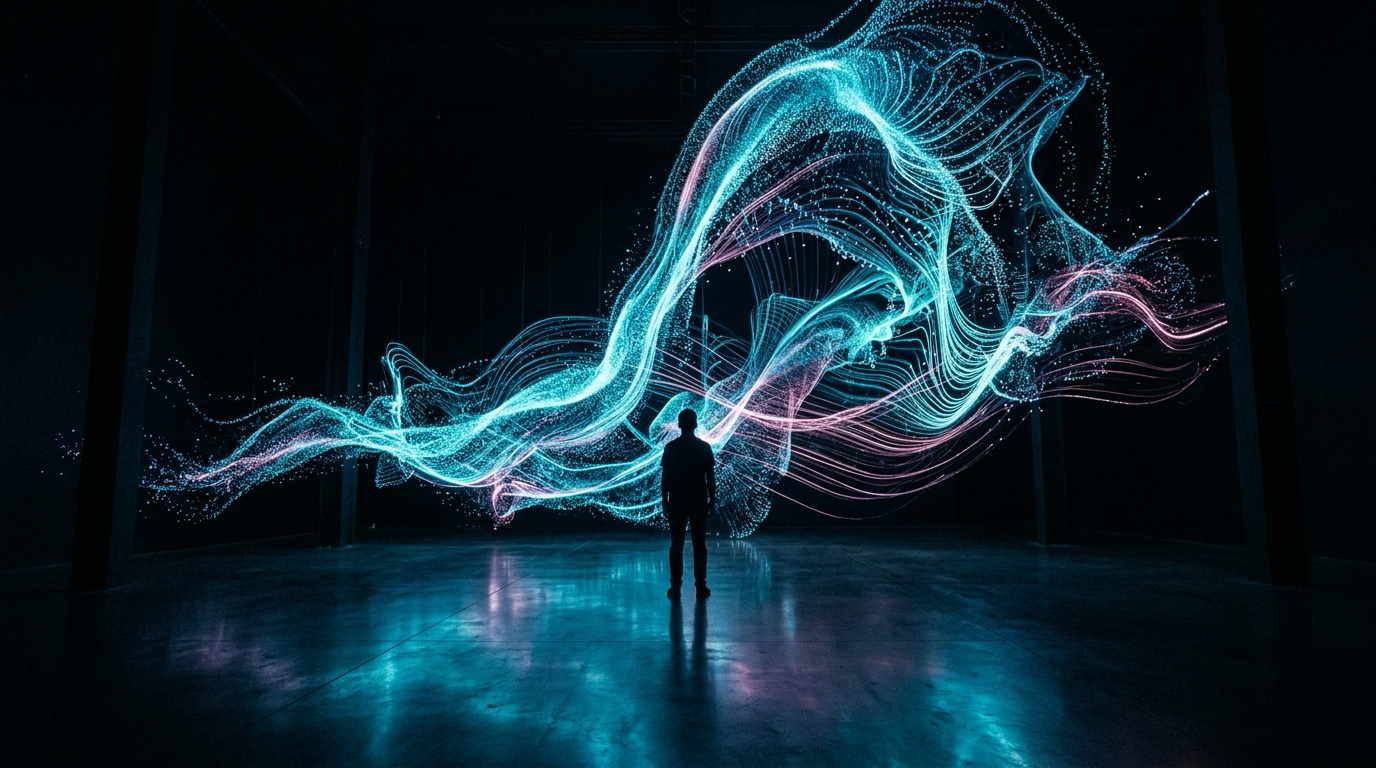
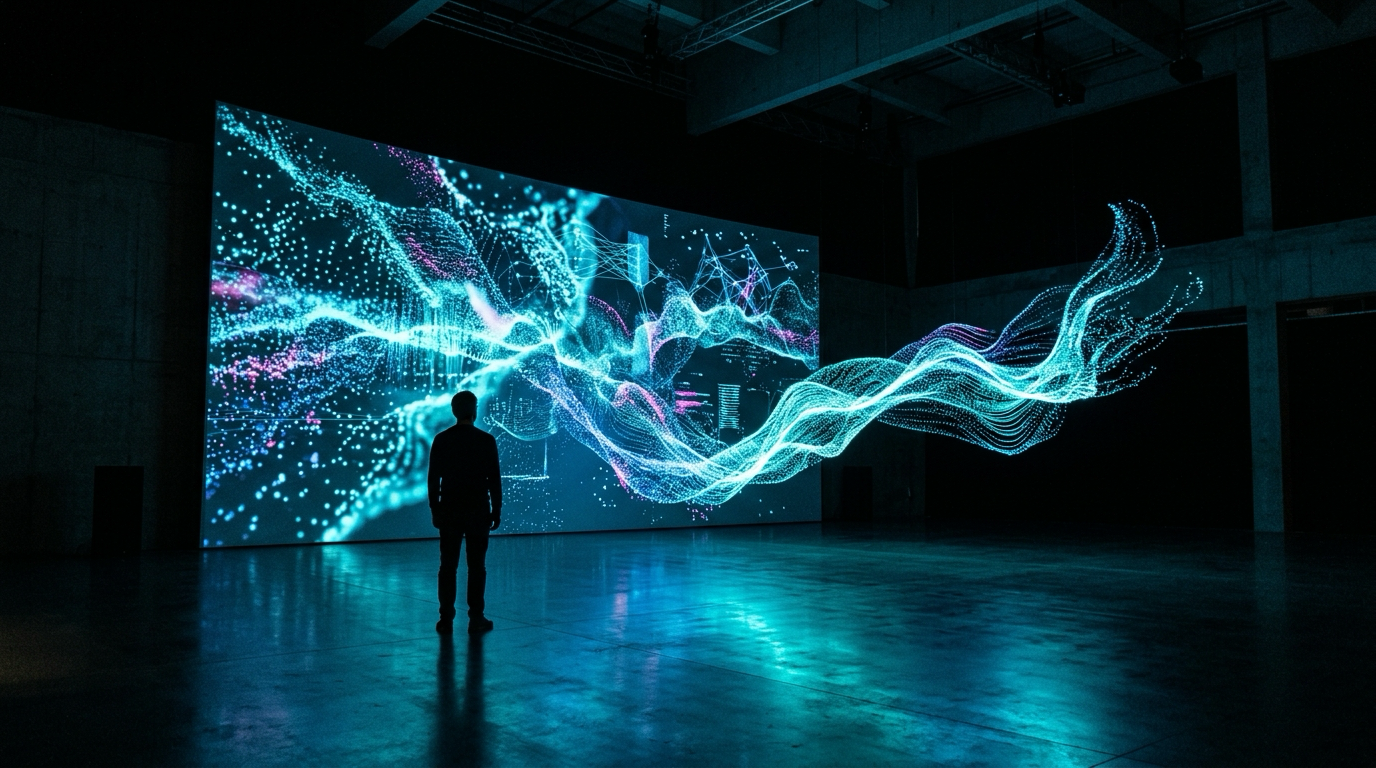
feat(blog): regenerate remaining post covers with nano banana 2

diff --git a/blog/posts/history-of-media-art/index.html b/blog/posts/history-of-media-art/index.html
@@ -10,7 +10,7 @@
     <meta property="og:title" content="미디어아트의 역사" />
     <meta property="og:description" content="Long-form article tracing media art from early kinetic experiments to AI art, ending with Korean trajectories and key theoretical turning points for contemporary readers." />
     <meta property="og:url" content="https://dexa.art/blog/posts/history-of-media-art/" />
-    <meta property="og:image" content="https://dexa.art/blog/images/history-of-media-art-cover.svg" />
+    <meta property="og:image" content="https://dexa.art/blog/images/history-of-media-art-cover.png" />
     <meta property="og:site_name" content="DEXA" />
     <meta property="article:published_time" content="2026-04-15" />
     <meta property="article:author" content="육대근" />
@@ -22,8 +22,8 @@
     <meta name="twitter:card" content="summary_large_image" />
     <meta name="twitter:title" content="미디어아트의 역사" />
     <meta name="twitter:description" content="Long-form article tracing media art from early kinetic experiments to AI art, ending with Korean trajectories and key theoretical turning points for contemporary readers." />
-    <meta name="twitter:image" content="https://dexa.art/blog/images/history-of-media-art-cover.svg" />
-    <script type="application/ld+json">{"@context":"https://schema.org","@type":"Article","headline":"미디어아트의 역사","description":"Long-form article tracing media art from early kinetic experiments to AI art, ending with Korean trajectories and key theoretical turning points for contemporary readers.","image":"https://dexa.art/blog/images/history-of-media-art-cover.svg","datePublished":"2026-04-15","dateModified":"2026-04-15","author":{"@type":"Person","name":"육대근"},"publisher":{"@type":"Organization","name":"DEXA","logo":{"@type":"ImageObject","url":"https://dexa.art/dexa_logo.jpg"}},"mainEntityOfPage":{"@type":"WebPage","@id":"https://dexa.art/blog/posts/history-of-media-art/"},"keywords":"media-art, art-history, new-media, digital-art, generative-art"}</script>
+    <meta name="twitter:image" content="https://dexa.art/blog/images/history-of-media-art-cover.png" />
+    <script type="application/ld+json">{"@context":"https://schema.org","@type":"Article","headline":"미디어아트의 역사","description":"Long-form article tracing media art from early kinetic experiments to AI art, ending with Korean trajectories and key theoretical turning points for contemporary readers.","image":"https://dexa.art/blog/images/history-of-media-art-cover.png","datePublished":"2026-04-15","dateModified":"2026-04-15","author":{"@type":"Person","name":"육대근"},"publisher":{"@type":"Organization","name":"DEXA","logo":{"@type":"ImageObject","url":"https://dexa.art/dexa_logo.jpg"}},"mainEntityOfPage":{"@type":"WebPage","@id":"https://dexa.art/blog/posts/history-of-media-art/"},"keywords":"media-art, art-history, new-media, digital-art, generative-art"}</script>
     <link href="https://fonts.googleapis.com" rel="preconnect" />
     <link crossorigin="" href="https://fonts.gstatic.com" rel="preconnect" />
     <link rel="stylesheet" href="https://fonts.googleapis.com/css2?family=Inter:wght@300;400;500;600;700&family=Noto+Sans+KR:wght@300;400;500;700&display=swap" />
@@ -105,7 +105,7 @@
             </div>
             <div class="prose-dexa">
 <h1>미디어아트의 역사</h1>
-<p><img src="/blog/images/history-of-media-art-cover.svg" alt="History of Media Art cover" loading="lazy"></p>
+<p><img src="/blog/images/history-of-media-art-cover.png" alt="History of Media Art cover" loading="lazy"></p>
 <h2>1. 개요</h2>
 <p>미디어아트는 특정 장르 이름이기보다 기술 매체가 예술의 주제, 재료, 환경, 인터페이스가 되는 순간을 가리키는 넓은 역사적 범주다. 1960년대 플럭서스와 비디오아트가 TV와 전자장치를 예술의 표면으로 끌어들였다면, 1990년대는 컴퓨터, 센서, 네트워크가 관객의 참여와 연결되며 작품의 구조 자체를 바꾸었다. 2000년대 이후 데이터, 알고리즘, 소프트웨어는 이미지 뒤의 인프라를 전면화했고, 2010년대의 이머시브 설치는 그 인프라를 공간 경험과 체험경제로 확장했다. 2020년대 AI아트는 다시 한 번 저자성, 데이터셋, 기계 상상력, 인간 감각의 관계를 재정의하며 미디어아트를 &quot;기술의 표현&quot;이 아니라 &quot;지능과 감각의 협상장&quot;으로 만들고 있다.</p>
 <p>이 60여 년의 흐름을 한 줄로 압축하면, 미디어아트의 역사는 새로운 장치를 도입한 연대기가 아니라 감각의 매체 조건을 반복적으로 재설계한 역사다. 따라서 Nam June Paik에서 Refik Anadol까지의 계보는 단순한 진보 서사가 아니라, Medium Specificity에서 post-media로, 오브제에서 시스템으로, 관람에서 참여로, 인간 중심 창작에서 기계 협업 창작으로 이동한 연속적 재배치의 역사로 읽어야 한다. 이 역사에서 중요한 것은 &quot;기술을 썼느냐&quot;가 아니라, 기술이 작품의 존재 방식과 관객의 지각 방식을 어떻게 바꾸었느냐다. 그 점에서 미디어아트는 언제나 예술사이면서 동시에 매체사, 감각사, 인터페이스사의 교차점에 놓여 있다.</p>

diff --git a/blog/posts/history-of-korean-media-art/index.html b/blog/posts/history-of-korean-media-art/index.html
@@ -10,7 +10,7 @@
     <meta property="og:title" content="한국 미디어아트 역사" />
     <meta property="og:description" content="Verified blog article on the history of Korean media art from Nam June Paik to the AI era, focusing on generational shifts, aesthetics, and global positioning." />
     <meta property="og:url" content="https://dexa.art/blog/posts/history-of-korean-media-art/" />
-    <meta property="og:image" content="https://dexa.art/blog/images/history-of-korean-media-art-cover.svg" />
+    <meta property="og:image" content="https://dexa.art/blog/images/history-of-korean-media-art-cover.png" />
     <meta property="og:site_name" content="DEXA" />
     <meta property="article:published_time" content="2026-04-15" />
     <meta property="article:author" content="육대근" />
@@ -22,8 +22,8 @@
     <meta name="twitter:card" content="summary_large_image" />
     <meta name="twitter:title" content="한국 미디어아트 역사" />
     <meta name="twitter:description" content="Verified blog article on the history of Korean media art from Nam June Paik to the AI era, focusing on generational shifts, aesthetics, and global positioning." />
-    <meta name="twitter:image" content="https://dexa.art/blog/images/history-of-korean-media-art-cover.svg" />
-    <script type="application/ld+json">{"@context":"https://schema.org","@type":"Article","headline":"한국 미디어아트 역사","description":"Verified blog article on the history of Korean media art from Nam June Paik to the AI era, focusing on generational shifts, aesthetics, and global positioning.","image":"https://dexa.art/blog/images/history-of-korean-media-art-cover.svg","datePublished":"2026-04-15","dateModified":"2026-04-15","author":{"@type":"Person","name":"육대근"},"publisher":{"@type":"Organization","name":"DEXA","logo":{"@type":"ImageObject","url":"https://dexa.art/dexa_logo.jpg"}},"mainEntityOfPage":{"@type":"WebPage","@id":"https://dexa.art/blog/posts/history-of-korean-media-art/"},"keywords":"media-art, korean-art, art-history, digital-art, immersive"}</script>
+    <meta name="twitter:image" content="https://dexa.art/blog/images/history-of-korean-media-art-cover.png" />
+    <script type="application/ld+json">{"@context":"https://schema.org","@type":"Article","headline":"한국 미디어아트 역사","description":"Verified blog article on the history of Korean media art from Nam June Paik to the AI era, focusing on generational shifts, aesthetics, and global positioning.","image":"https://dexa.art/blog/images/history-of-korean-media-art-cover.png","datePublished":"2026-04-15","dateModified":"2026-04-15","author":{"@type":"Person","name":"육대근"},"publisher":{"@type":"Organization","name":"DEXA","logo":{"@type":"ImageObject","url":"https://dexa.art/dexa_logo.jpg"}},"mainEntityOfPage":{"@type":"WebPage","@id":"https://dexa.art/blog/posts/history-of-korean-media-art/"},"keywords":"media-art, korean-art, art-history, digital-art, immersive"}</script>
     <link href="https://fonts.googleapis.com" rel="preconnect" />
     <link crossorigin="" href="https://fonts.gstatic.com" rel="preconnect" />
     <link rel="stylesheet" href="https://fonts.googleapis.com/css2?family=Inter:wght@300;400;500;600;700&family=Noto+Sans+KR:wght@300;400;500;700&display=swap" />
@@ -106,7 +106,7 @@
             <div class="prose-dexa">
 <h1>한국 미디어아트 역사</h1>
 <p>이 글은 한국 미디어아트 역사 원문을 블로그용으로 다듬은 버전이다. 원문 중 6번과 7번 항목은 제외했고, 10번까지만 남겼다. 백남준의 1963년 개인전, 1984년 위성 프로젝트, 1988년 《다다익선》, 서울미디어시티비엔날레의 전신과 출범 시점, 아르떼뮤지엄의 2020년 제주 개관, 일부 작가 약력은 공개된 기관 자료와 작가 공식 페이지를 다시 대조해 문장을 정리했다.</p>
-<p><img src="/blog/images/history-of-korean-media-art-cover.svg" alt="History of Korean Media Art cover" loading="lazy"></p>
+<p><img src="/blog/images/history-of-korean-media-art-cover.png" alt="History of Korean Media Art cover" loading="lazy"></p>
 <h2>1. 개요 — 한국 미디어아트의 독특한 위치</h2>
 <p>한국 미디어아트의 역사는 출발점부터 특수하다. 세계 미디어아트의 정전 안에 이미 하나의 한국 이름이 깊게 새겨져 있기 때문이다. 그 이름은 백남준이다. 이 사실은 한국 작가들에게 강력한 역사적 정당성을 주었지만, 동시에 늘 “백남준 이후를 어떻게 말할 것인가”라는 부담도 남겼다.</p>
 <p>그래서 한국 미디어아트의 역사는 선구자 한 명 뒤를 잇는 단순 연대기가 아니다. 거대한 기원을 어떻게 우회하고, 재해석하고, 다른 사회적 감각으로 번역했는가의 역사다. 이 과정에서 중요한 것은 기술 그 자체보다 기술을 받아들이는 한국적 조건이었다. 냉전과 분단, 압축 근대화, 도시 집중, 초고속 통신망, 플랫폼 문화는 한국에서 스크린과 네트워크를 늘 양가적으로 만들었다. 기술은 미래의 상징이면서 동시에 감시와 과잉 연결, 속도와 피로의 장치이기도 했다.</p>

diff --git a/blog/posts/vibe-coding-in-2026/index.html b/blog/posts/vibe-coding-in-2026/index.html
@@ -10,7 +10,7 @@
     <meta property="og:title" content="2026 바이브코딩 입문 가이드: 프롬프트보다 '이것'이 먼저다" />
     <meta property="og:description" content="2026년 3월 30일 기준으로도 바이브코딩을 여전히 &quot;자연어로 대충 말하면 AI가 앱을 만들어주는 방식&quot; 정도로 이해하면 금방 한계에 부딪힌다. 첫 주에는 놀랍다. 둘째 주에는 답답해진다. 셋째 주에는 &quot;이거 생각보다 별거 아니네&quot;라는 말이 나온다. 대개 이 지점에서 문제는 모델이 아..." />
     <meta property="og:url" content="https://dexa.art/blog/posts/vibe-coding-in-2026/" />
-    <meta property="og:image" content="https://dexa.art/blog/images/vibe-coding-workspace-cover.jpg" />
+    <meta property="og:image" content="https://dexa.art/blog/images/vibe-coding-workspace-cover.png" />
     <meta property="og:site_name" content="DEXA" />
     <meta property="article:published_time" content="2026-03-30" />
     <meta property="article:author" content="육대근" />
@@ -24,8 +24,8 @@
     <meta name="twitter:card" content="summary_large_image" />
     <meta name="twitter:title" content="2026 바이브코딩 입문 가이드: 프롬프트보다 '이것'이 먼저다" />
     <meta name="twitter:description" content="2026년 3월 30일 기준으로도 바이브코딩을 여전히 &quot;자연어로 대충 말하면 AI가 앱을 만들어주는 방식&quot; 정도로 이해하면 금방 한계에 부딪힌다. 첫 주에는 놀랍다. 둘째 주에는 답답해진다. 셋째 주에는 &quot;이거 생각보다 별거 아니네&quot;라는 말이 나온다. 대개 이 지점에서 문제는 모델이 아..." />
-    <meta name="twitter:image" content="https://dexa.art/blog/images/vibe-coding-workspace-cover.jpg" />
-    <script type="application/ld+json">{"@context":"https://schema.org","@type":"Article","headline":"2026 바이브코딩 입문 가이드: 프롬프트보다 '이것'이 먼저다","description":"2026년 3월 30일 기준으로도 바이브코딩을 여전히 \"자연어로 대충 말하면 AI가 앱을 만들어주는 방식\" 정도로 이해하면 금방 한계에 부딪힌다. 첫 주에는 놀랍다. 둘째 주에는 답답해진다. 셋째 주에는 \"이거 생각보다 별거 아니네\"라는 말이 나온다. 대개 이 지점에서 문제는 모델이 아...","image":"https://dexa.art/blog/images/vibe-coding-workspace-cover.jpg","datePublished":"2026-03-30","dateModified":"2026-03-30","author":{"@type":"Person","name":"육대근"},"publisher":{"@type":"Organization","name":"DEXA","logo":{"@type":"ImageObject","url":"https://dexa.art/dexa_logo.jpg"}},"mainEntityOfPage":{"@type":"WebPage","@id":"https://dexa.art/blog/posts/vibe-coding-in-2026/"},"keywords":"AI, vibe-coding, AI-coding, codex, claude-code, openclaw, harness-engineering"}</script>
+    <meta name="twitter:image" content="https://dexa.art/blog/images/vibe-coding-workspace-cover.png" />
+    <script type="application/ld+json">{"@context":"https://schema.org","@type":"Article","headline":"2026 바이브코딩 입문 가이드: 프롬프트보다 '이것'이 먼저다","description":"2026년 3월 30일 기준으로도 바이브코딩을 여전히 \"자연어로 대충 말하면 AI가 앱을 만들어주는 방식\" 정도로 이해하면 금방 한계에 부딪힌다. 첫 주에는 놀랍다. 둘째 주에는 답답해진다. 셋째 주에는 \"이거 생각보다 별거 아니네\"라는 말이 나온다. 대개 이 지점에서 문제는 모델이 아...","image":"https://dexa.art/blog/images/vibe-coding-workspace-cover.png","datePublished":"2026-03-30","dateModified":"2026-03-30","author":{"@type":"Person","name":"육대근"},"publisher":{"@type":"Organization","name":"DEXA","logo":{"@type":"ImageObject","url":"https://dexa.art/dexa_logo.jpg"}},"mainEntityOfPage":{"@type":"WebPage","@id":"https://dexa.art/blog/posts/vibe-coding-in-2026/"},"keywords":"AI, vibe-coding, AI-coding, codex, claude-code, openclaw, harness-engineering"}</script>
     <link href="https://fonts.googleapis.com" rel="preconnect" />
     <link crossorigin="" href="https://fonts.gstatic.com" rel="preconnect" />
     <link rel="stylesheet" href="https://fonts.googleapis.com/css2?family=Inter:wght@300;400;500;600;700&family=Noto+Sans+KR:wght@300;400;500;700&display=swap" />

diff --git a/blog/posts/_built/history-of-korean-media-art.md b/blog/posts/_built/history-of-korean-media-art.md
@@ -15,7 +15,7 @@ tags:
   - art-history
   - digital-art
   - immersive
-thumbnail: images/history-of-korean-media-art-cover.svg
+thumbnail: images/history-of-korean-media-art-cover.png
 status: completed
 ---
 
@@ -25,7 +25,7 @@ status: completed
 원문 중 6번과 7번 항목은 제외했고, 10번까지만 남겼다.
 백남준의 1963년 개인전, 1984년 위성 프로젝트, 1988년 《다다익선》, 서울미디어시티비엔날레의 전신과 출범 시점, 아르떼뮤지엄의 2020년 제주 개관, 일부 작가 약력은 공개된 기관 자료와 작가 공식 페이지를 다시 대조해 문장을 정리했다.
 
-![History of Korean Media Art cover](images/history-of-korean-media-art-cover.svg)
+![History of Korean Media Art cover](images/history-of-korean-media-art-cover.png)
 
 ## 1. 개요 — 한국 미디어아트의 독특한 위치
 

diff --git a/blog/posts/한국 미디어아트 역사.md b/blog/posts/한국 미디어아트 역사.md
@@ -15,7 +15,7 @@ tags:
   - art-history
   - digital-art
   - immersive
-thumbnail: images/history-of-korean-media-art-cover.svg
+thumbnail: images/history-of-korean-media-art-cover.png
 status: completed
 ---
 
@@ -25,7 +25,7 @@ status: completed
 원문 중 6번과 7번 항목은 제외했고, 10번까지만 남겼다.
 백남준의 1963년 개인전, 1984년 위성 프로젝트, 1988년 《다다익선》, 서울미디어시티비엔날레의 전신과 출범 시점, 아르떼뮤지엄의 2020년 제주 개관, 일부 작가 약력은 공개된 기관 자료와 작가 공식 페이지를 다시 대조해 문장을 정리했다.
 
-![History of Korean Media Art cover](images/history-of-korean-media-art-cover.svg)
+![History of Korean Media Art cover](images/history-of-korean-media-art-cover.png)
 
 ## 1. 개요 — 한국 미디어아트의 독특한 위치
 

diff --git a/blog/posts/_built/history-of-media-art.md b/blog/posts/_built/history-of-media-art.md
@@ -15,13 +15,13 @@ tags:
   - new-media
   - digital-art
   - generative-art
-thumbnail: images/history-of-media-art-cover.svg
+thumbnail: images/history-of-media-art-cover.png
 status: completed
 ---
 
 # 미디어아트의 역사
 
-![History of Media Art cover](images/history-of-media-art-cover.svg)
+![History of Media Art cover](images/history-of-media-art-cover.png)
 
 ## 1. 개요
 

diff --git a/blog/posts/미디어아트의 역사.md b/blog/posts/미디어아트의 역사.md
@@ -15,13 +15,13 @@ tags:
   - new-media
   - digital-art
   - generative-art
-thumbnail: images/history-of-media-art-cover.svg
+thumbnail: images/history-of-media-art-cover.png
 status: completed
 ---
 
 # 미디어아트의 역사
 
-![History of Media Art cover](images/history-of-media-art-cover.svg)
+![History of Media Art cover](images/history-of-media-art-cover.png)
 
 ## 1. 개요
 

diff --git a/blog/posts/2026-03-30-바이브코딩은-프롬프트보다-이것이다.md b/blog/posts/2026-03-30-바이브코딩은-프롬프트보다-이것이다.md
@@ -16,7 +16,7 @@ tags:
   - claude-code
   - openclaw
   - harness-engineering
-thumbnail: images/vibe-coding-workspace-cover.jpg
+thumbnail: images/vibe-coding-workspace-cover.png
 CMDS: "[[📚 620 Generative AI]]"
 index: "[[🏷 Draft Article]]"
 status: completed

diff --git a/blog/posts/_built/vibe-coding-in-2026.md b/blog/posts/_built/vibe-coding-in-2026.md
@@ -16,7 +16,7 @@ tags:
   - claude-code
   - openclaw
   - harness-engineering
-thumbnail: images/vibe-coding-workspace-cover.jpg
+thumbnail: images/vibe-coding-workspace-cover.png
 CMDS: "[[📚 620 Generative AI]]"
 index: "[[🏷 Draft Article]]"
 status: completed
